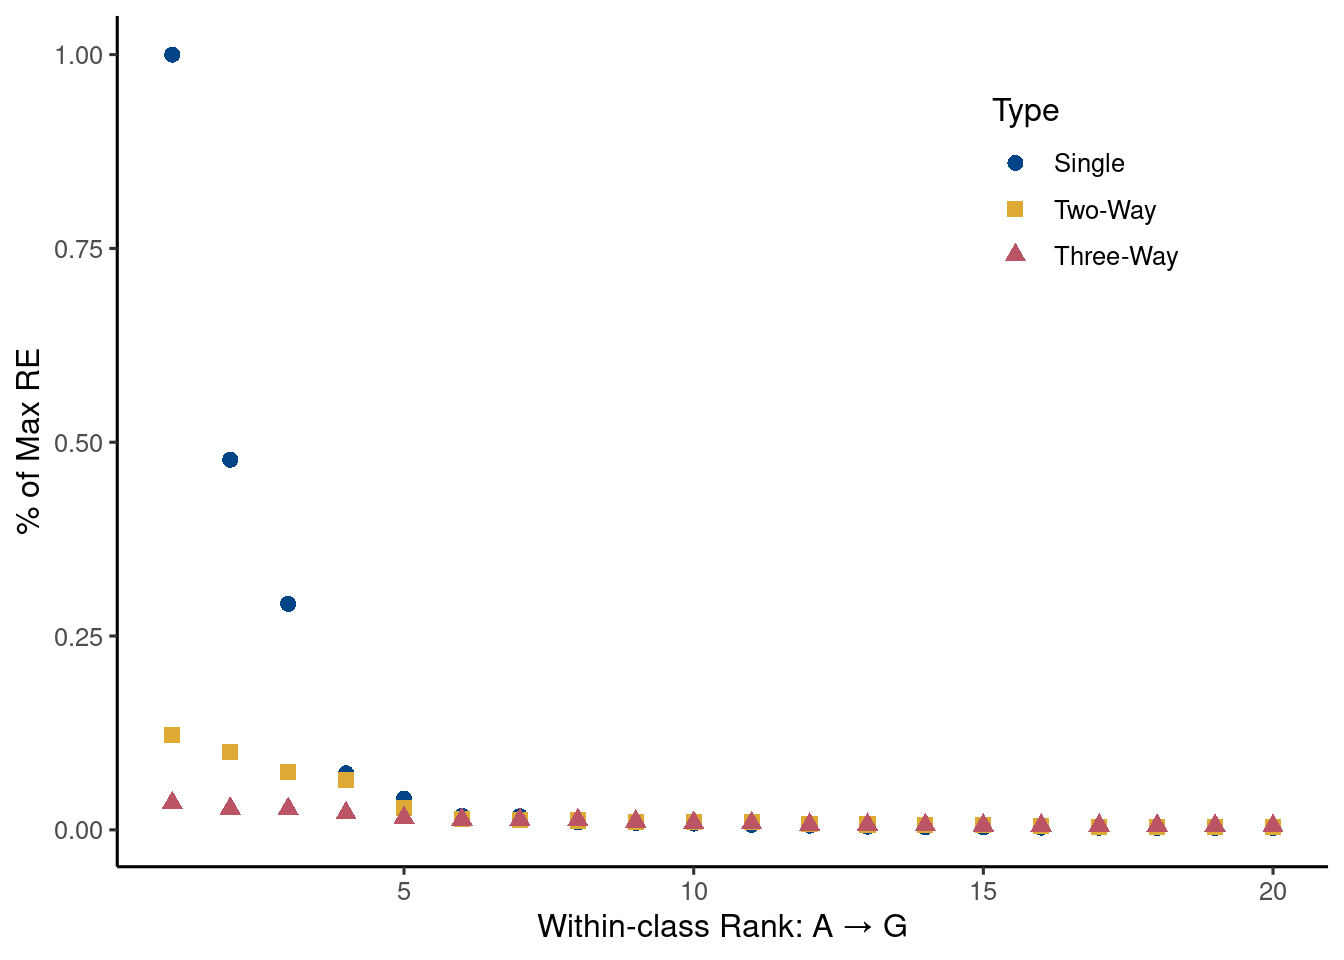
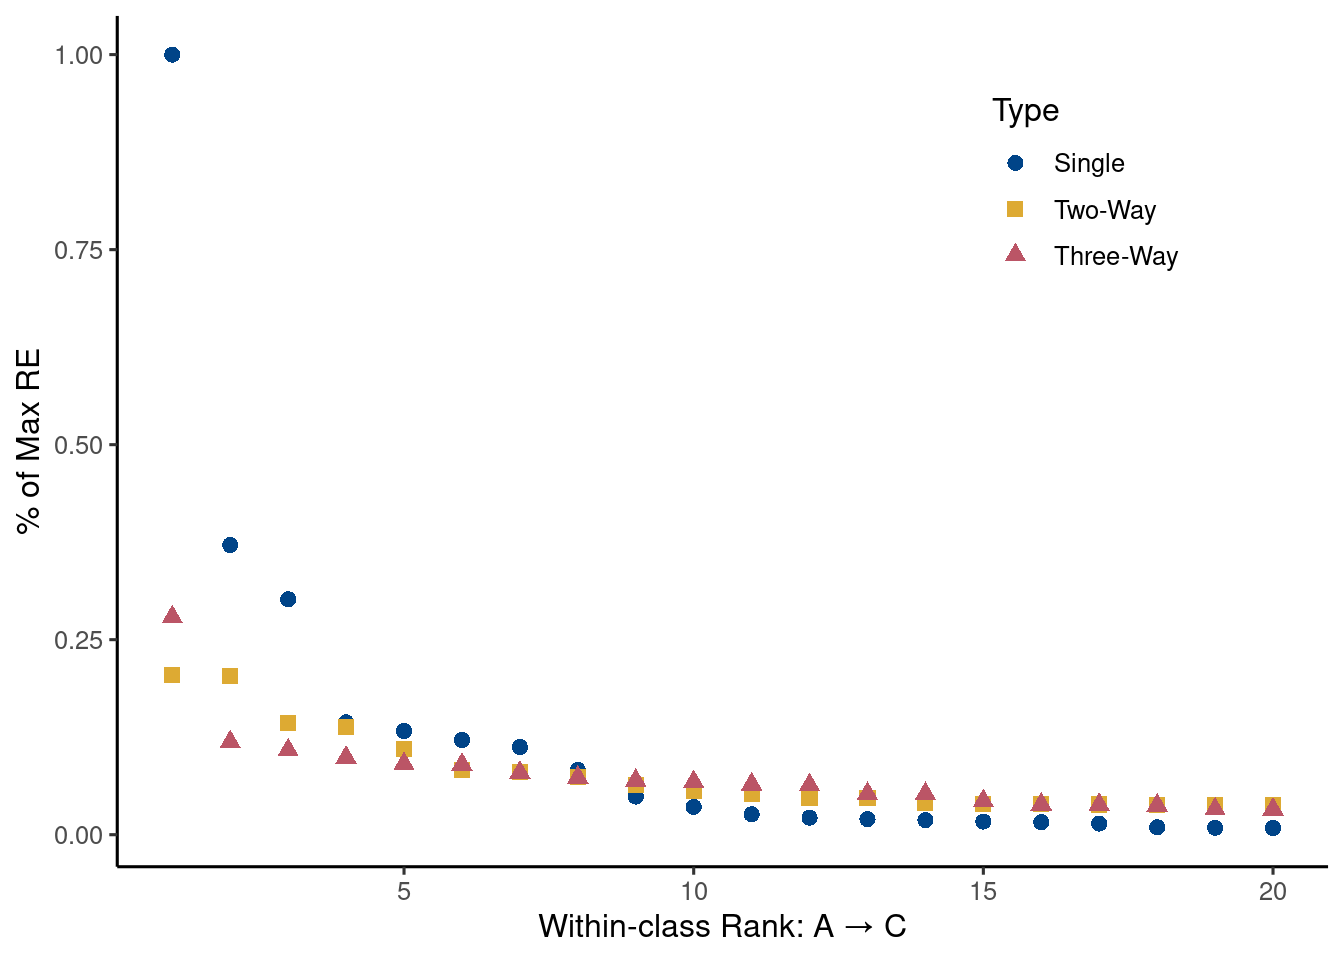
Build site.

diff --git a/docs/three_pos_results.html b/docs/three_pos_results.html
@@ -513,15 +513,15 @@ project makes it easier to run your code on other machines.</p>
 <div class="panel panel-default">
 <div class="panel-heading">
 <p class="panel-title">
-<a data-toggle="collapse" data-parent="#workflowr-checks" href="#strongRepositoryversionstrongahrefhttpsgithubcomtheandybLSCIpipelinetree853231a03ada8bd6b0747945d6b455a58504551ctargetblank853231aa">
+<a data-toggle="collapse" data-parent="#workflowr-checks" href="#strongRepositoryversionstrongahrefhttpsgithubcomtheandybLSCIpipelinetree6904a6ee71a178b28cd54bcfa87eda90c73f682ctargetblank6904a6ea">
 <span class="glyphicon glyphicon-ok text-success"
 aria-hidden="true"></span> <strong>Repository version:</strong>
-<a href="https://github.com/theandyb/LSCI_pipeline/tree/853231a03ada8bd6b0747945d6b455a58504551c" target="_blank">853231a</a>
+<a href="https://github.com/theandyb/LSCI_pipeline/tree/6904a6ee71a178b28cd54bcfa87eda90c73f682c" target="_blank">6904a6e</a>
 </a>
 </p>
 </div>
 <div
[2 lines of base64/hex data omitted]
 class="panel-collapse collapse">
 <div class="panel-body">
 <p>
@@ -531,7 +531,7 @@ reproducibility.
 </p>
 <p>
 The results in this page were generated with repository version
-<a href="https://github.com/theandyb/LSCI_pipeline/tree/853231a03ada8bd6b0747945d6b455a58504551c" target="_blank">853231a</a>.
+<a href="https://github.com/theandyb/LSCI_pipeline/tree/6904a6ee71a178b28cd54bcfa87eda90c73f682c" target="_blank">6904a6e</a>.
 See the <em>Past versions</em> tab to see a history of the changes made
 to the R Markdown and HTML files.
 </p>
@@ -612,6 +612,40 @@ Message
 </tr>
 </thead>
 <tbody>
+<tr>
+<td>
+Rmd
+</td>
+<td>
+<a href="https://github.com/theandyb/LSCI_pipeline/blob/6904a6ee71a178b28cd54bcfa87eda90c73f682c/analysis/three_pos_results.Rmd" target="_blank">6904a6e</a>
+</td>
+<td>
+Andy Beck
+</td>
+<td>
+2025-02-04
+</td>
+<td>
+wflow_publish("analysis/three_pos_results.Rmd")
+</td>
+</tr>
+<tr>
+<td>
+html
+</td>
+<td>
+<a href="https://rawcdn.githack.com/theandyb/LSCI_pipeline/e19e40126de8a146a370f031cf8a3ea3b206039a/docs/three_pos_results.html" target="_blank">e19e401</a>
+</td>
+<td>
+Andy Beck
+</td>
+<td>
+2025-02-04
+</td>
+<td>
+Build site.
+</td>
+</tr>
 <tr>
 <td>
 Rmd
@@ -757,15 +791,56 @@ plot_ranked_re &lt;- function(single_dir, two_dir, three_dir, pop, subtype, rank
           legend.position.inside = c(.8, .8)) +
     ylab(&quot;% of Max RE&quot;) +
     xlab(paste0(&quot;Within-class Rank: &quot;, subtype_print_names(subtype)))
-  print(p)
-  print(reactable(df))
+  return(list(df=df, fig=p))
 }</code></pre>
 </div>
 </div>
 <div id="figures-and-tables" class="section level2">
 <h2>Figures and Tables</h2>
-<pre class="r"><code>plot_ranked_re(single_dir, two_dir, three_dir, &quot;ALL&quot;, &quot;AT_GC&quot;)</code></pre>
+<pre class="r"><code>for(st in c(&quot;AT_CG&quot;, &quot;AT_GC&quot;)){
+  res &lt;- plot_ranked_re(single_dir, two_dir, three_dir, &quot;ALL&quot;, st)
+  reactable(res$df)
+  print(res$fig)
+}</code></pre>
 <p><img src="figure/three_pos_results.Rmd/unnamed-chunk-5-1.png" width="672" style="display: block; margin: auto;" /></p>
+<p>
+<button type="button" class="btn btn-default btn-xs btn-workflowr btn-workflowr-fig" data-toggle="collapse" data-target="#fig-unnamed-chunk-5-1">
+Past versions of unnamed-chunk-5-1.png
+</button>
+</p>
+<div id="fig-unnamed-chunk-5-1" class="collapse">
+<div class="table-responsive">
+<table class="table table-condensed table-hover">
+<thead>
+<tr>
+<th>
+Version
+</th>
+<th>
+Author
+</th>
+<th>
+Date
+</th>
+</tr>
+</thead>
+<tbody>
+<tr>
+<td>
+<a href="https://github.com/theandyb/LSCI_pipeline/blob/e19e40126de8a146a370f031cf8a3ea3b206039a/docs/figure/three_pos_results.Rmd/unnamed-chunk-5-1.png" target="_blank">e19e401</a>
+</td>
+<td>
+Andy Beck
+</td>
+<td>
+2025-02-04
+</td>
+</tr>
+</tbody>
+</table>
+</div>
+</div>
+<p><img src="figure/three_pos_results.Rmd/unnamed-chunk-5-2.png" width="672" style="display: block; margin: auto;" /></p>
 <br>
 <p>
 <button type="button" class="btn btn-default btn-workflowr btn-workflowr-sessioninfo" data-toggle="collapse" data-target="#workflowr-sessioninfo" style="display: block;">
@@ -805,8 +880,8 @@ other attached packages:
 
 loaded via a namespace (and not attached):
  [1] gtable_0.3.6      xfun_0.49         bslib_0.8.0       htmlwidgets_1.6.4
- [5] processx_3.8.4    callr_3.7.6       tzdb_0.4.0        crosstalk_1.2.1  
- [9] vctrs_0.6.5       tools_4.4.2       ps_1.8.1          generics_0.1.3   
+ [5] processx_3.8.4    callr_3.7.6       tzdb_0.4.0        vctrs_0.6.5      
+ [9] tools_4.4.2       crosstalk_1.2.1   ps_1.8.1          generics_0.1.3   
 [13] parallel_4.4.2    fansi_1.0.6       pkgconfig_2.0.3   lifecycle_1.0.4  
 [17] farver_2.1.2      compiler_4.4.2    git2r_0.33.0      munsell_0.5.1    
 [21] getPass_0.2-4     httpuv_1.6.15     htmltools_0.5.8.1 sass_0.4.9       
